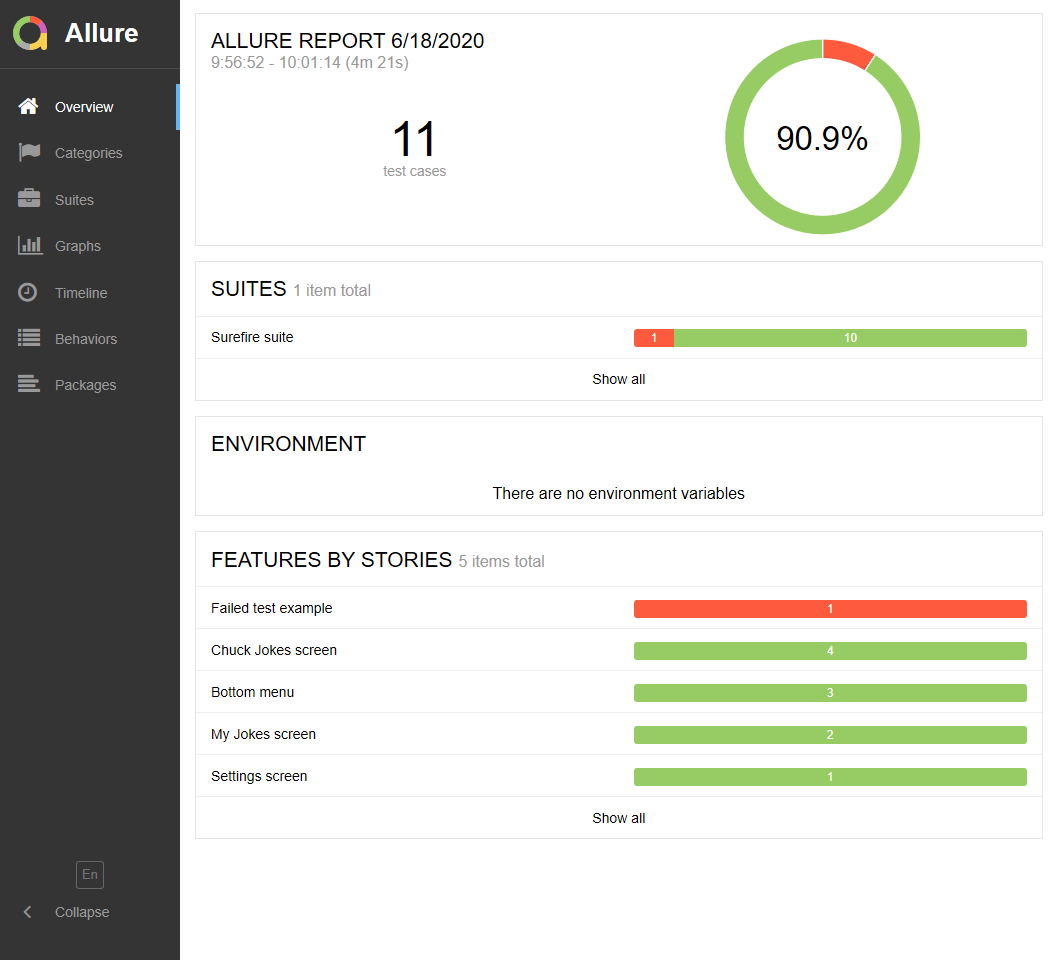
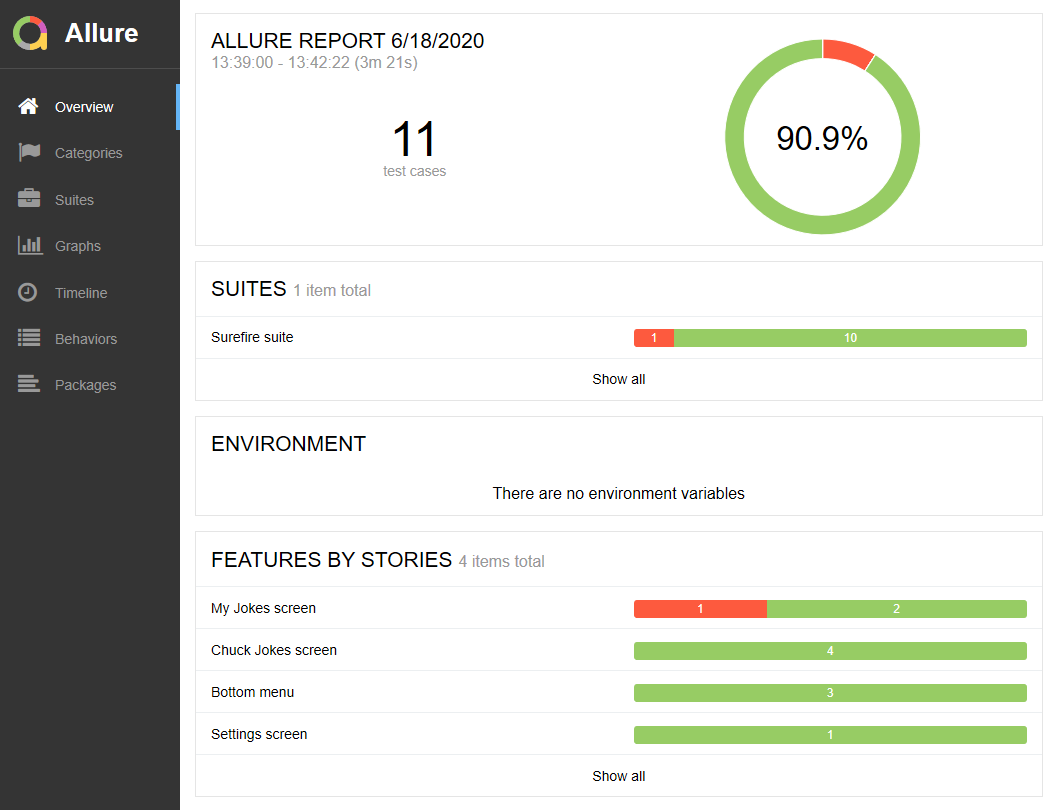
updated test & report examples

diff --git a/src/test/java/android/JokesTest.java b/src/test/java/android/JokesTest.java
@@ -117,11 +117,16 @@ public class JokesTest {
         MyJokesScreen.emptyViewCheckText();
     }
 
-    @Feature("Failed test example")
-    @Test(description = "This test was meant to fail")
-    public void failTest() {
+    @Feature("My Jokes screen")
+    @Test(description = "Check validation length on Add New Joke popup input")
+    public void myJokesNewJokeValidationTest() {
+        String tooLongString = Faker.instance().lorem().fixedString(121);
+        String trimmedString = tooLongString.substring(0, tooLongString.length() - 1);
         BottomMenu.myJokesButtonClick();
-        SettingsScreen.firstNameInputCheckVisibility();
+        MyJokesScreen.addNewJokeButtonClick();
+        MyJokesScreen.addNewJokePopupInputSendKeys(tooLongString);
+        MyJokesScreen.addNewJokePopupSaveButtonClick();
+        MyJokesScreen.jokeItemCheckText(trimmedString);
     }
 
 }
